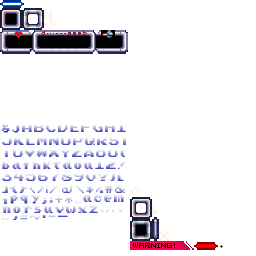
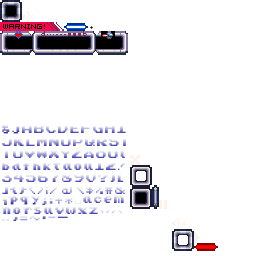
Loading screen changes

Changed region(s): [[0.0, 0.4688, 0.875, 1.0], [0.0, 0.0, 0.5, 0.1562], [0.0, 0.1875, 0.5, 0.2188]]

diff --git a/core/src/main/kotlin/com/matthias/screen/LoadingScreen.kt b/core/src/main/kotlin/com/matthias/screen/LoadingScreen.kt
@@ -1,26 +1,28 @@
 package com.matthias.screen
 
 import com.badlogic.gdx.Gdx
-import com.badlogic.gdx.scenes.scene2d.actions.Actions.*
-import com.badlogic.gdx.scenes.scene2d.ui.Image
+import com.badlogic.gdx.scenes.scene2d.actions.Actions.forever
 import com.badlogic.gdx.scenes.scene2d.ui.Label
+import com.badlogic.gdx.scenes.scene2d.ui.ProgressBar
 import com.badlogic.gdx.utils.Align.center
 import com.matthias.DarkMatterGame
 import com.matthias.assets.*
-import com.matthias.ui.LabelStyles.DEFAULT
+import com.matthias.common.fadeInOut
+import com.matthias.common.textSequence
 import com.matthias.ui.LabelStyles.GRADIENT
 import kotlinx.coroutines.joinAll
 import kotlinx.coroutines.launch
-import ktx.actors.plus
-import ktx.actors.plusAssign
 import ktx.async.KtxAsync
 import ktx.collections.gdxArrayOf
 import ktx.scene2d.*
 
 class LoadingScreen(game: DarkMatterGame) : ScreenBase(game) {
 
-    private lateinit var progressBar: Image
+    private lateinit var progressBar: ProgressBar
     private lateinit var touchToBeginLabel: Label
+    private lateinit var progressBarLabel: Label
+
+    private var loadingFinished = false
 
     override fun show() {
         val assetRefs = gdxArrayOf(
@@ -44,13 +46,14 @@ class LoadingScreen(game: DarkMatterGame) : ScreenBase(game) {
     }
 
     override fun render(delta: Float) {
-        if (assets.progress.isFinished && Gdx.input.justTouched() && game.containsScreen<GameScreen>()) {
+        if (loadingFinished && Gdx.input.justTouched()) {
             game.setScreen<GameScreen>()
             game.removeScreen<LoadingScreen>()
             dispose()
         }
 
-        progressBar.scaleX = assets.progress.percent
+        updateProgressBar()
+
         stage.run {
             viewport.apply()
             act()
@@ -60,43 +63,60 @@ class LoadingScreen(game: DarkMatterGame) : ScreenBase(game) {
 
     private fun assetsLoaded() {
         game.addScreen(GameScreen(game))
-        touchToBeginLabel += forever(sequence(fadeIn(0.5f) + fadeOut(0.5f)))
+
+        touchToBeginLabel.isVisible = true
+        setProgressBarAsLoaded()
+
+        loadingFinished = true
     }
 
     private fun setupUI() {
         stage.actors {
+
             table {
+                setFillParent(true)
+
                 defaults().fillX().expandX()
 
-                label("Loading Screen", GRADIENT.name) {
+                label("Dark Matter", GRADIENT.id) {
                     wrap = true
                     setAlignment(center)
                 }
 
-                row()
+                row().pad(5f)
 
-                touchToBeginLabel = label("Touch to Begin", DEFAULT.name) {
+                touchToBeginLabel = label("Touch to Begin") {
                     wrap = true
                     setAlignment(center)
-                    color.a = 0f
+                    addAction(forever(fadeInOut(0.5f, 0.5f)))
+                    isVisible = false
                 }
 
                 row()
 
-                stack { cell ->
-                    progressBar = image("life_bar") {
-                        scaleX = 0f
+                stack {
+                    progressBar = progressBar() {
+                        style.background.minHeight = 20f
+                        style.background.minWidth = 1f
+                        style.knob.minHeight = 20f
+                        style.knob.minWidth = 1f
                     }
-                    label("Loading...", DEFAULT.name) {
+                    progressBarLabel = label("Loading...") {
                         setAlignment(center)
+                        addAction(forever(textSequence(0.5f, "Loading.", "Loading..", "Loading...")))
                     }
-                    cell.padLeft(5f).padRight(5f)
                 }
-
-                setFillParent(true)
-                pack()
             }
         }
 //        stage.isDebugAll = true
+    }
+
+    private fun updateProgressBar() {
+        progressBar.value = assets.progress.percent
+    }
+
+    private fun setProgressBarAsLoaded() {
+        progressBarLabel.clearActions()
+        progressBarLabel.setText("loaded")
     }
 }

diff --git a/core/src/main/kotlin/com/matthias/DarkMatterGame.kt b/core/src/main/kotlin/com/matthias/DarkMatterGame.kt
@@ -6,24 +6,24 @@ import com.badlogic.gdx.Gdx
 import com.badlogic.gdx.graphics.g2d.SpriteBatch
 import com.badlogic.gdx.scenes.scene2d.Stage
 import com.badlogic.gdx.utils.viewport.FitViewport
-import com.matthias.assets.BitmapFontAsset
+import com.matthias.assets.BitmapFontAsset.FONT_DEFAULT
+import com.matthias.assets.BitmapFontAsset.FONT_LARGE_GRADIENT
 import com.matthias.assets.ShaderProgramAsset
 import com.matthias.assets.TextureAsset.BACKGROUND
-import com.matthias.assets.TextureAtlasAsset
 import com.matthias.assets.TextureAtlasAsset.GAME_GRAPHICS
+import com.matthias.assets.TextureAtlasAsset.REQUIRED
 import com.matthias.audio.AudioService
 import com.matthias.audio.DefaultAudioService
 import com.matthias.ecs.system.*
 import com.matthias.event.GameEventManager
 import com.matthias.screen.LoadingScreen
-import com.matthias.ui.createSkin
+import com.matthias.ui.setupDefaultSkin
 import kotlinx.coroutines.joinAll
 import kotlinx.coroutines.launch
 import ktx.app.KtxGame
 import ktx.app.KtxScreen
 import ktx.assets.async.AssetStorage
 import ktx.async.KtxAsync
-import ktx.collections.gdxArrayOf
 import ktx.log.logger
 
 private val LOG = logger<DarkMatterGame>()
@@ -80,14 +80,17 @@ class DarkMatterGame : KtxGame<KtxScreen>() {
 
         LOG.debug { "Creating DarkMatterGame" }
 
-        val assetRefs = gdxArrayOf(
-            TextureAtlasAsset.values().filter { it.isSkinAtlas }.map { assets.loadAsync(it.descriptor) },
-            BitmapFontAsset.values().map { assets.loadAsync(it.descriptor) }
-        ).flatten()
+        val requiredAssets = listOf(
+            assets.loadAsync(REQUIRED.descriptor),
+            assets.loadAsync(FONT_LARGE_GRADIENT.descriptor),
+            assets.loadAsync(FONT_DEFAULT.descriptor)
+        )
 
         KtxAsync.launch {
-            assetRefs.joinAll()
-            createSkin(assets)
+            requiredAssets.joinAll()
+
+            setupDefaultSkin(assets)
+
             addScreen(LoadingScreen(this@DarkMatterGame))
             setScreen<LoadingScreen>()
         }

diff --git a/core/src/main/kotlin/com/matthias/ui/skin.kt b/core/src/main/kotlin/com/matthias/ui/skin.kt
@@ -1,5 +1,6 @@
 package com.matthias.ui
 
+import com.badlogic.gdx.graphics.Color
 import com.matthias.assets.BitmapFontAsset
 import com.matthias.assets.TextureAtlasAsset
 import com.matthias.ui.LabelStyles.DEFAULT
@@ -7,20 +8,34 @@ import com.matthias.ui.LabelStyles.GRADIENT
 import ktx.assets.async.AssetStorage
 import ktx.scene2d.Scene2DSkin
 import ktx.style.label
+import ktx.style.progressBar
 import ktx.style.skin
 
-enum class LabelStyles { DEFAULT, GRADIENT }
 
-fun createSkin(assets: AssetStorage) {
-    val atlas = assets[TextureAtlasAsset.UI.descriptor]
+enum class LabelStyles(val id: String) {
+    DEFAULT("default"),
+    GRADIENT("gradient")
+}
+
+fun setupDefaultSkin(assets: AssetStorage) {
+    val atlas = assets[TextureAtlasAsset.REQUIRED.descriptor]
     val gradientFont = assets[BitmapFontAsset.FONT_LARGE_GRADIENT.descriptor]
     val defaultFont = assets[BitmapFontAsset.FONT_DEFAULT.descriptor]
+
     Scene2DSkin.defaultSkin = skin(atlas) { skin ->
-        label(DEFAULT.name) {
+
+        label(DEFAULT.id) {
             font = defaultFont
         }
-        label(GRADIENT.name) {
+
+        label(GRADIENT.id) {
             font = gradientFont
+        }
+
+        progressBar("default-horizontal") {
+            background = skin.newDrawable("white", Color.DARK_GRAY)
+            knob = skin.newDrawable("white", Color.RED)
+            knobBefore = knob
         }
     }
 }

diff --git a/core/src/main/kotlin/com/matthias/common/actions.kt b/core/src/main/kotlin/com/matthias/common/actions.kt
@@ -1,0 +1,22 @@
+package com.matthias.common
+
+import com.badlogic.gdx.scenes.scene2d.Action
+import com.badlogic.gdx.scenes.scene2d.actions.Actions
+import com.badlogic.gdx.scenes.scene2d.actions.Actions.sequence
+import com.badlogic.gdx.scenes.scene2d.actions.DelayAction
+import com.badlogic.gdx.scenes.scene2d.actions.RunnableAction
+import com.badlogic.gdx.scenes.scene2d.ui.Label
+
+fun fadeInOut(fadeInDuration: Float, fadeOutDuration: Float): Action = sequence(Actions.fadeIn(fadeInDuration), Actions.fadeOut(fadeOutDuration))
+
+fun textSequence(delayDuration: Float, vararg texts: String): Action = texts.fold(sequence()) { seq, text ->
+    seq.addAction(TextAction(text))
+    seq.addAction(DelayAction(delayDuration))
+    return@fold seq
+}
+
+class TextAction(private val text: String) : RunnableAction() {
+    override fun run() {
+        (target as? Label)?.setText(text)
+    }
+}

diff --git a/core/src/main/kotlin/com/matthias/assets/assets.kt b/core/src/main/kotlin/com/matthias/assets/assets.kt
@@ -26,7 +26,8 @@ enum class TextureAtlasAsset(
     val descriptor: AssetDescriptor<TextureAtlas> = AssetDescriptor("$directory/$fileName")
 ) {
     GAME_GRAPHICS("graphics.atlas", "textures"),
-    UI("ui.atlas", "ui", true)
+    REQUIRED("required.atlas", "ui", true),
+    UI("ui.atlas", "ui")
 }
 
 enum class SoundAsset(
